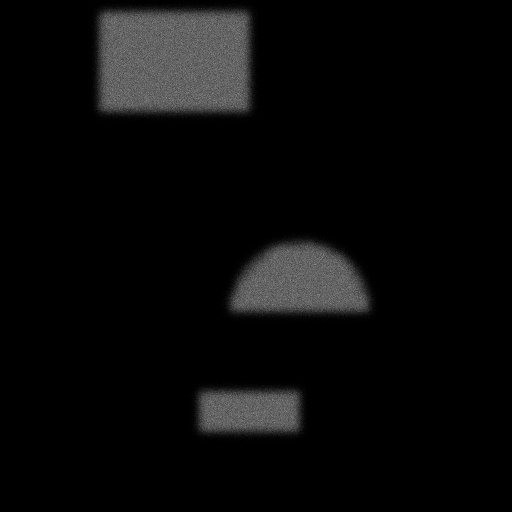
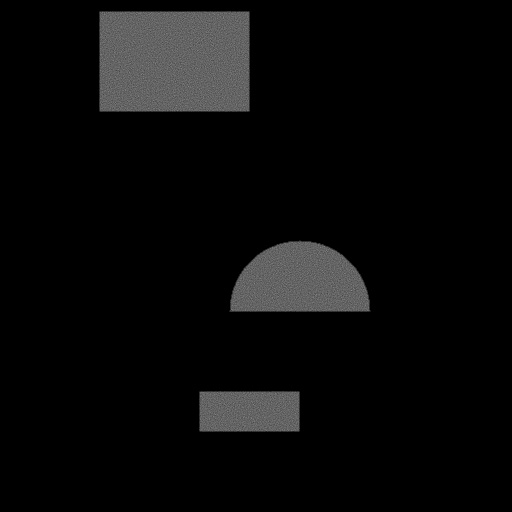
update

diff --git a/ImageProcess/image_creat.py b/ImageProcess/image_creat.py
@@ -8,57 +8,64 @@ class PixelWork:
         self.pix_map = {} #output image info
         self.img_height = 512 #default height
         self.img_width = 512 #default width
-        self.sigma = 4 #equivalent to spot size
+        self.sigma = 0.1 #equivalent to spot size
         self.cov = [[self.sigma, 0], [0, self.sigma]] #spot shape
-        self.ax = 0 #x distribution skew
-        self.ay = 0 #y distribution skew
+        #self.ax = 0 #x distribution skew
+        #self.ay = 0 #y distribution skew
         self.signals = 100 #number of signals in each pixel
         self.input_file_name = ''
         self.output_file_name = ''
 
     # add individual pixels
     def add_pixel(self, x, y):
-        self.pix_map[(x, y)] = scipy.stats.skewnorm.rvs([self.ax, self.ay], [x, y], [self.sigma, self.sigma], [self.signals, 2]).T
+        #self.pix_map[(x, y)] = scipy.stats.skewnorm.rvs([self.ax, self.ay], [x, y], [self.sigma, self.sigma], [self.signals, 2]).T
         
-        #self.pix_map[(x, y)] = np.random.multivariate_normal([x, y], self.cov, self.signals).T
+        self.pix_map[(x, y)] = np.random.multivariate_normal([x, y], self.cov, self.signals).T
 
     # get coordinates of black pixels in an image
     def add_image(self):
         # allow the file name from arguments
-        current_input_file_name = self.input_file_name if self.input_file_name != "" else 'sample/input.jpg'
+        current_input_file_name = self.input_file_name if self.input_file_name  else 'sample/input.jpg'
         print('current_input_file_name: ', current_input_file_name)
         img_arr = cv2.imread(current_input_file_name, cv2.IMREAD_GRAYSCALE)
         self.img_width, self.img_height = img_arr.shape
 
         def nearest_edge(x, y):
             left = right = x
+            self.ax = 0
             while left > 0 and right < self.img_width - 1:
                 left -= 1
                 right += 1
                 if img_arr[(left, y)] != 0:
-                    edge_x = left + 1 - x
+                    edge_x = x - left - 1
+                    #if edge_x < 3 * self.sigma:
+                    #    self.ax = edge_x
                     break
                 if img_arr[(right, y)] != 0:
-                    edge_x = right - 1 - x
+                    edge_x = x - right + 1
+                    #if -edge_x < self.sigma:
+                    #    self.ax = edge_x
                     break
+
             up = down = y
             while up > 0 and down < self.img_height - 1:
                 up -= 1
                 down += 1
                 if img_arr[(x, up)] != 0:
-                    edge_y = up + 1 - y
+                    edge_y = y - up - 1
+                    if edge_y < self.sigma:
+                        self.ay = self.sigma - edge_y
                     break
                 if img_arr[(x, down)] != 0:
-                    edge_y = down - 1 - y
+                    edge_y = y - down + 1
+                    if -edge_y < self.sigma:
+                        self.ay = self.sigma + edge_y
                     break
-            return edge_x, edge_y
 
         for x in range(self.img_width):
             for y in range(self.img_height):
-                if img_arr[x, y] == 0:
-                    self.ax, self.ay = nearest_edge(x, y)
-                    
- #                   self.cov = [[min(self.sigma, near_x_edge), 0], [0, min(self.sigma, near_y_edge), 0]]
+                if img_arr[x, y] < 50:
+                    #nearest_edge(x, y)
                     self.add_pixel(x, y)
 
     # draw the simulated image
@@ -69,6 +76,6 @@ class PixelWork:
         yedges = range(self.img_height + 1)
         H, xedges, yedges = np.histogram2d(x_sum, y_sum, bins=(xedges, yedges))
         # allow the file name from arguments
-        current_output_file_name = self.output_file_name if self.output_file_name != "" else 'sample/output.jpg'
+        current_output_file_name = self.output_file_name if self.output_file_name else 'sample/output.jpg'
         print('current_output_file_name: ', current_output_file_name)
         cv2.imwrite(current_output_file_name, H)
